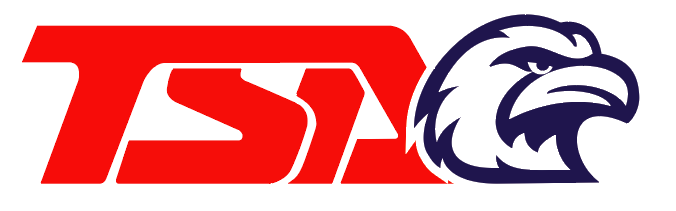
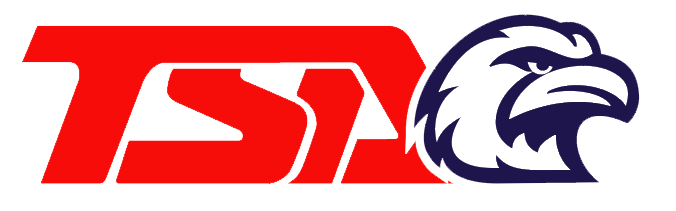
Slideshow and Header Fixes

diff --git a/tsa.html b/tsa.html
@@ -10,21 +10,21 @@
 	<body>
 		<div id="header">
 			<a href="home.html">
-				<img src="tsalnhs.png" alt="TSA Logo" id="header_image" />
+				<img src="tsalnhs22.png" alt="TSA Logo" id="header_image" />
 			</a>
 			
 			<div id="navigation">
 				<ul>
-					<li><a href="">Home</a></li>
-					<li><a href="">Organizations</a></li>
-					<li><a href="">TSA</a></li>
-					<li><a href="">PLTW</a></li>
-					<li><a href="">Register</a></li>
+					<li><a href="">About</a></li>
+					<li><a href="">Meetings</a></li>
+					<li><a href="">Contact</a></li>
+					<li><a href="">Members</a></li>
+					<li><a href="">Competition</a></li>
 				</ul>
 			</div>
 		</div>
 		
-		<div class="slideshow-container">
+		<div class="slideshow-container" style="text-align: center">
 			<div class="mySlides fade">
 				<img src="Images/TSANational3.jpg" style="width:100%">
 			</div>
@@ -39,10 +39,11 @@
 			<a class="next" onclick="plusSlides(1)">&#10095;</a>
 			
 			
-			<div style="text-align:center">
+			
+			<div id="dot_wrapper">
 				<span class="dot" onclick="currentSlide(1)"></span> 
 				<span class="dot" onclick="currentSlide(2)"></span> 
-				<span class="dot" onclick="currentSlide(3)"></span> 
+				<span class="dot" onclick="currentSlide(3)"></span>
 			</div>
 		</div>
 		

diff --git a/style.css b/style.css
@@ -52,7 +52,7 @@ body {
 }
 
 #header_image {
-	width: 15.5rem;
+	width: 16.75rem;
 }
 
 #content_wrapper {
@@ -94,6 +94,15 @@ img {
 	left: 8%;
 }
 
+#dot_wrapper {
+	display: block;
+	position: absolute;
+	top: 95%;
+	width: 100%;
+	margin-left: auto;
+	margin-right: auto;
+}
+
 .dot {
 	cursor: pointer;
 	height: 15px;
@@ -102,8 +111,6 @@ img {
 	background-color: #bbb;
 	border-radius: 50%;
 	display: inline-block;
-	position: absolute;
-	top: 95%;
 	transition: background-color 0.6s ease;
 }
 
@@ -124,6 +131,10 @@ img {
 .next {
 	right: 0;
 	border-radius: 3px 0 0 3px;
+}
+
+.prev {
+	left: 0;
 }
 
 .prev:hover, .next:hover {
